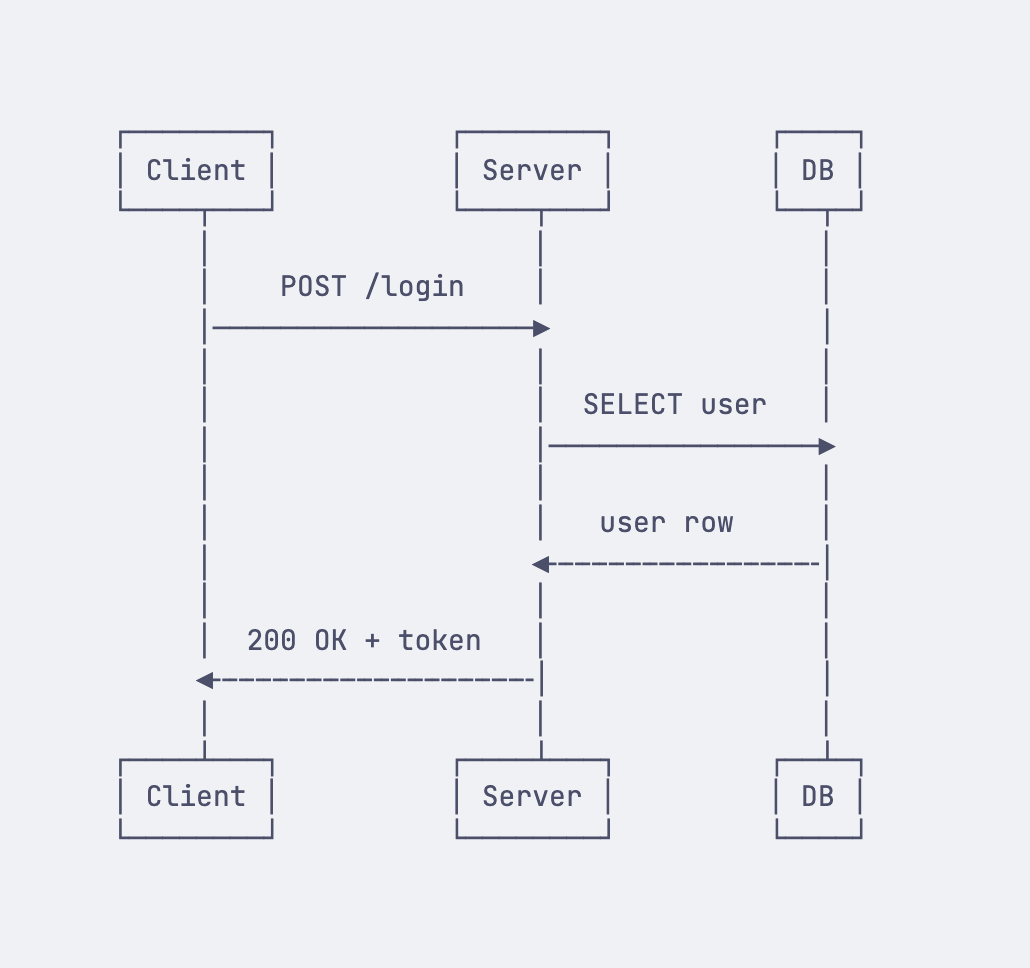
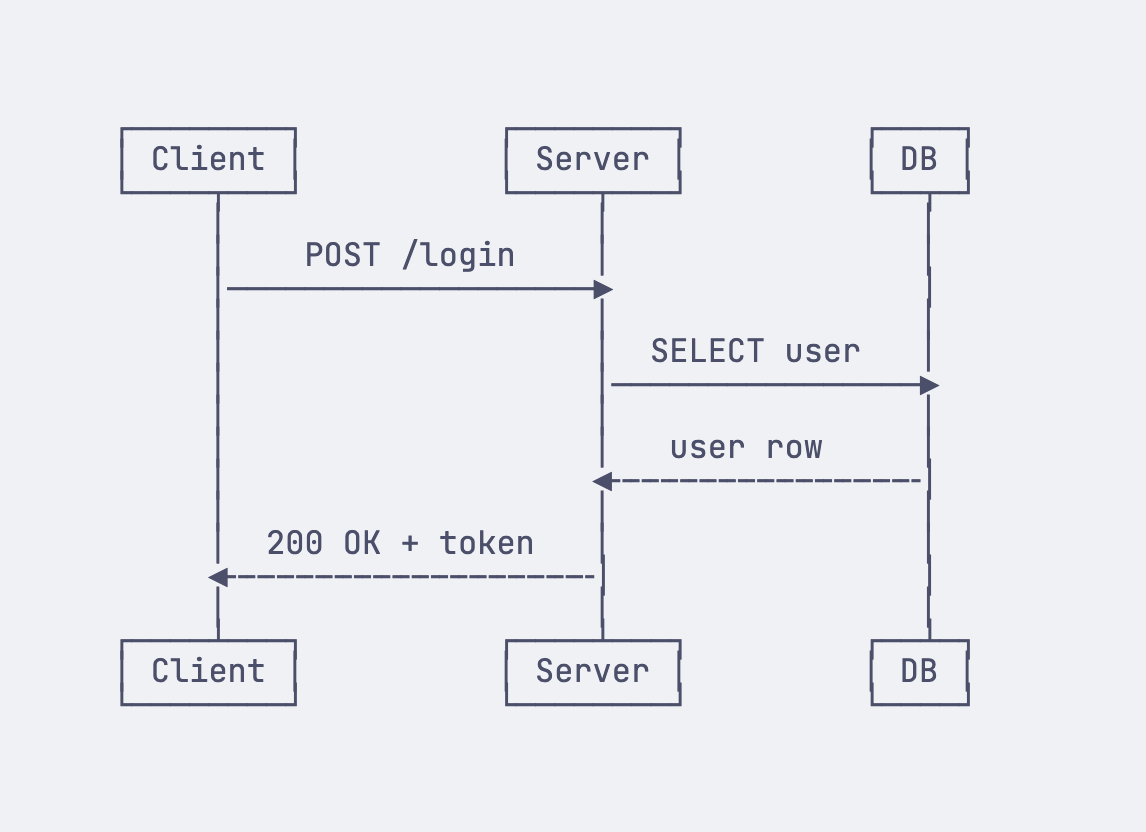
fix: ASCII screenshots line-height 1.0 for seamless box-drawing

diff --git a/scripts/screenshots.ts b/scripts/screenshots.ts
@@ -107,9 +107,10 @@ function renderAsciiHtml(source: string, theme: typeof mocha): string {
       padding: 32px;
     }
     #diagram {
-      font-family: 'JetBrains Mono', 'SF Mono', 'Fira Code', monospace;
-      font-size: 14px;
-      line-height: 1.4;
+      font-family: 'JetBrains Mono', monospace;
+      font-size: 16px;
+      line-height: 1.0;
+      letter-spacing: 0;
       color: ${theme.fg};
       white-space: pre;
       padding: 24px;
